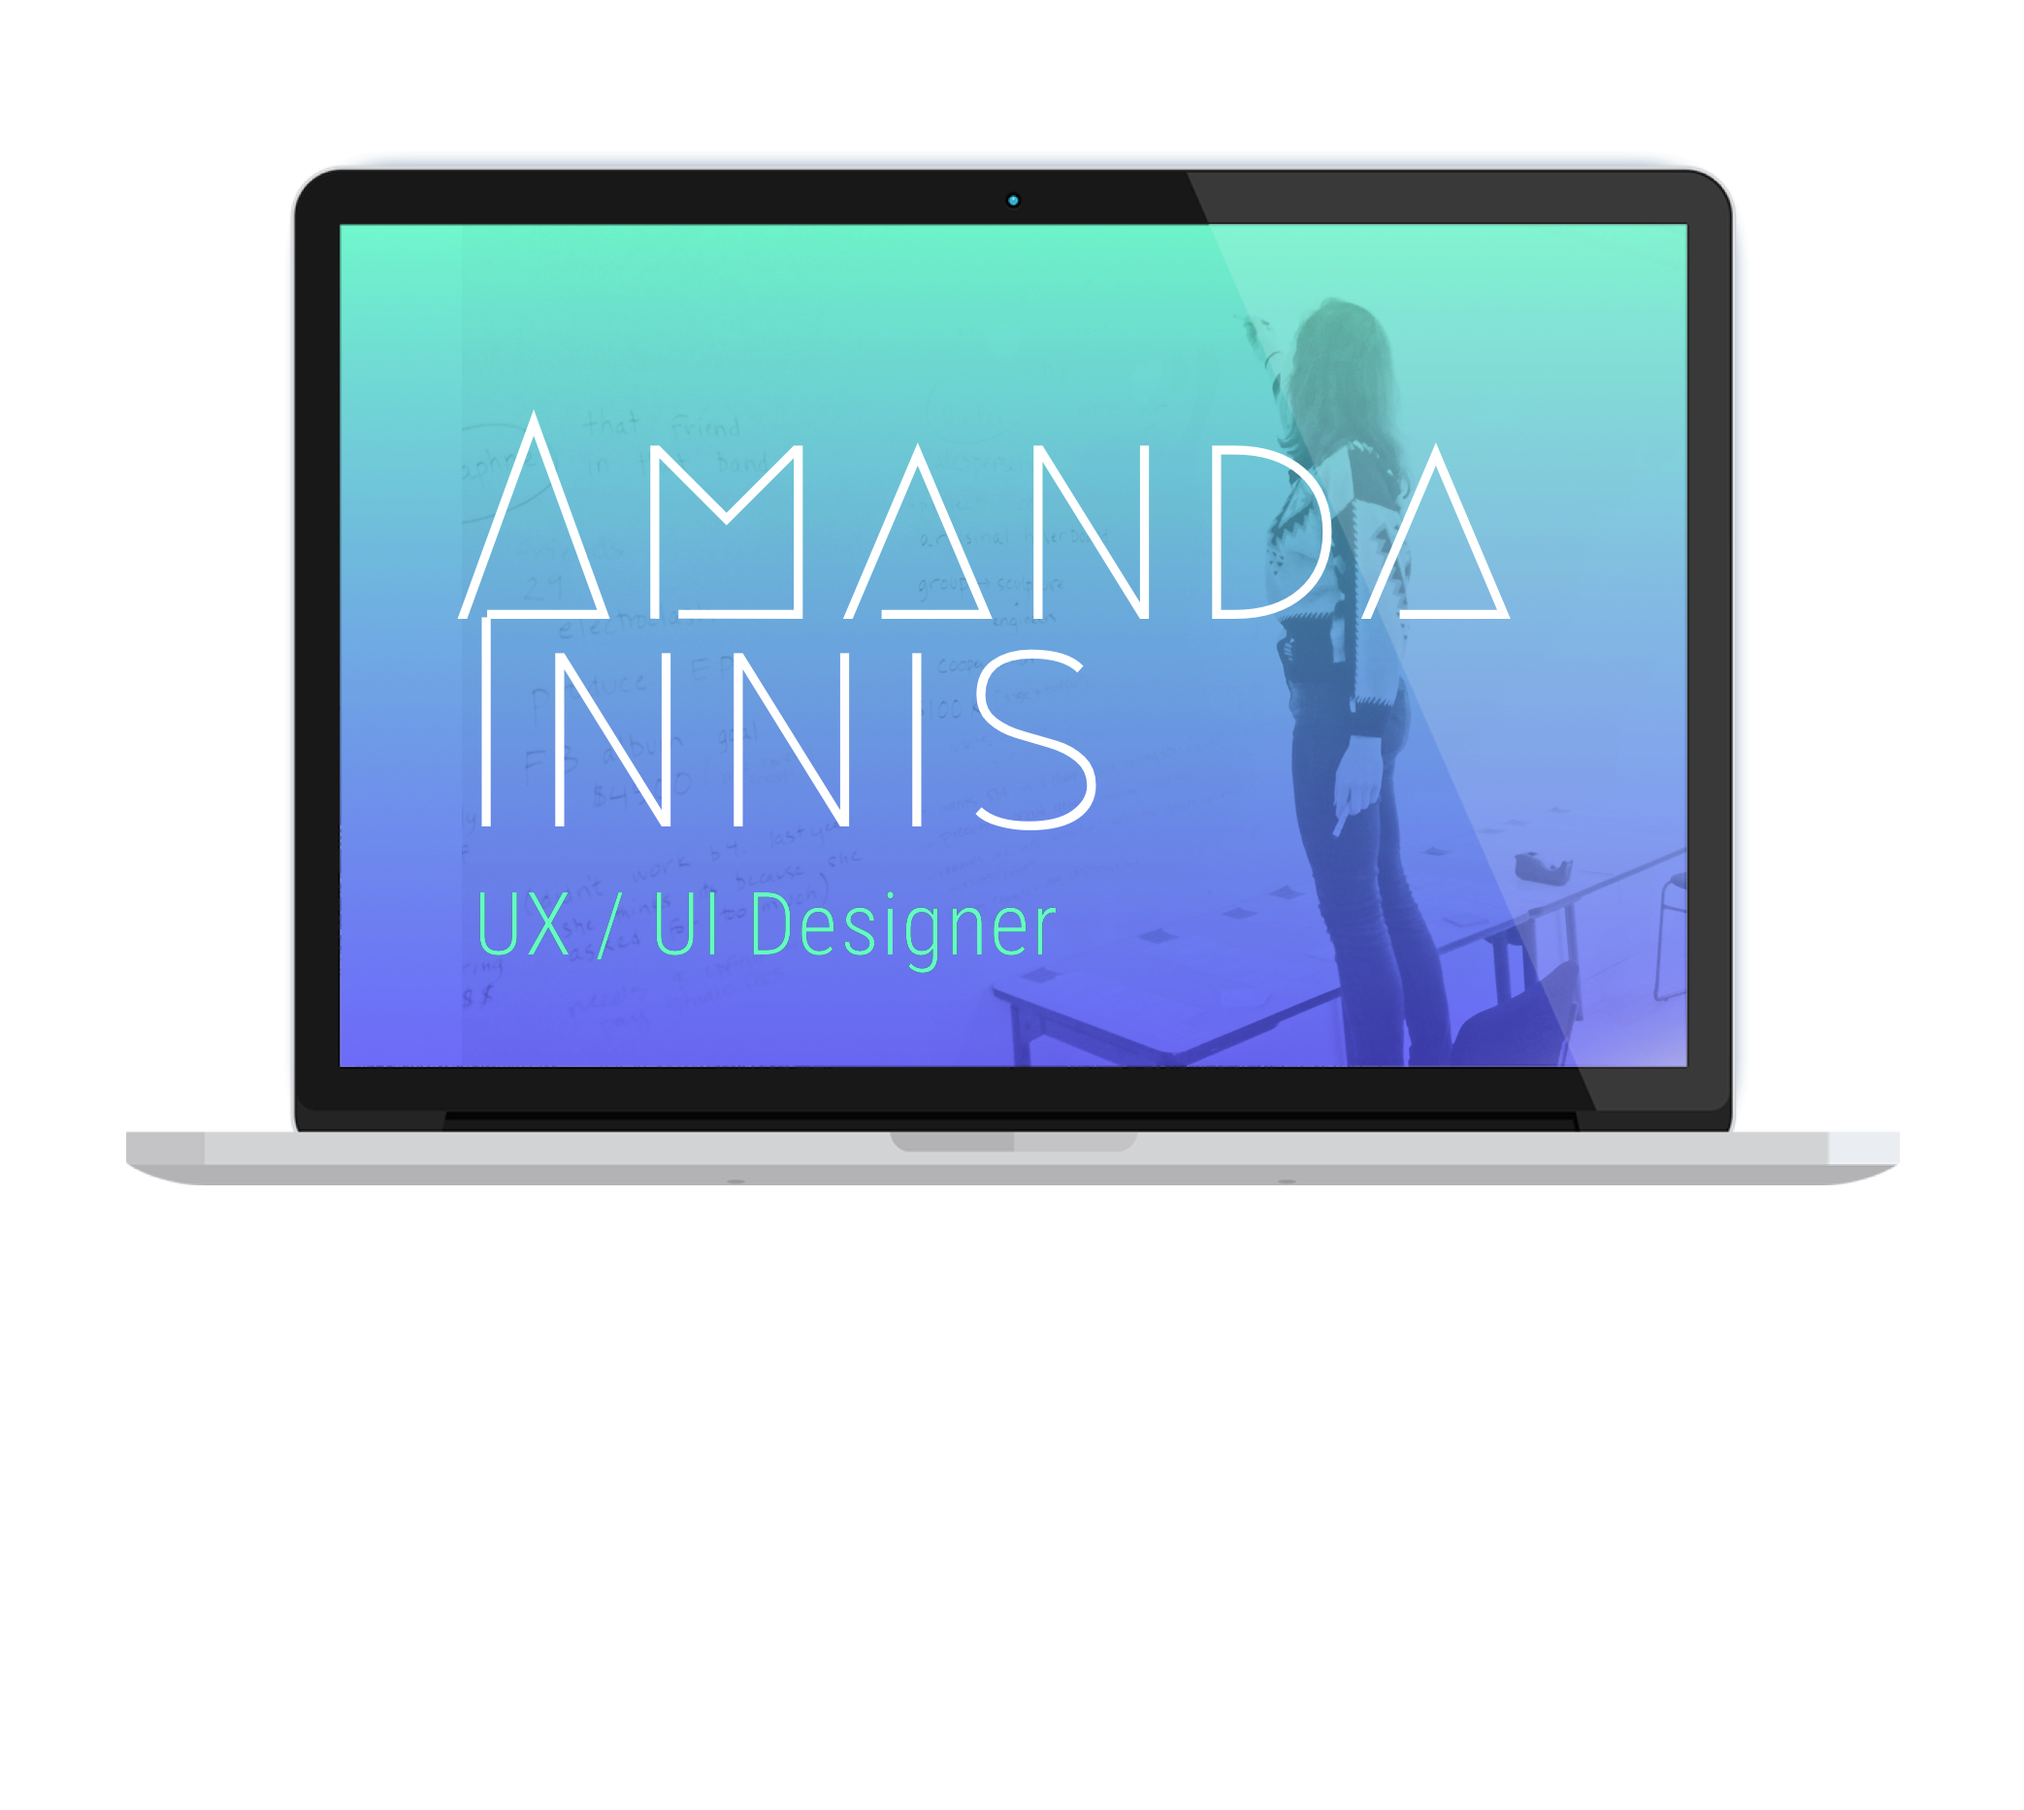
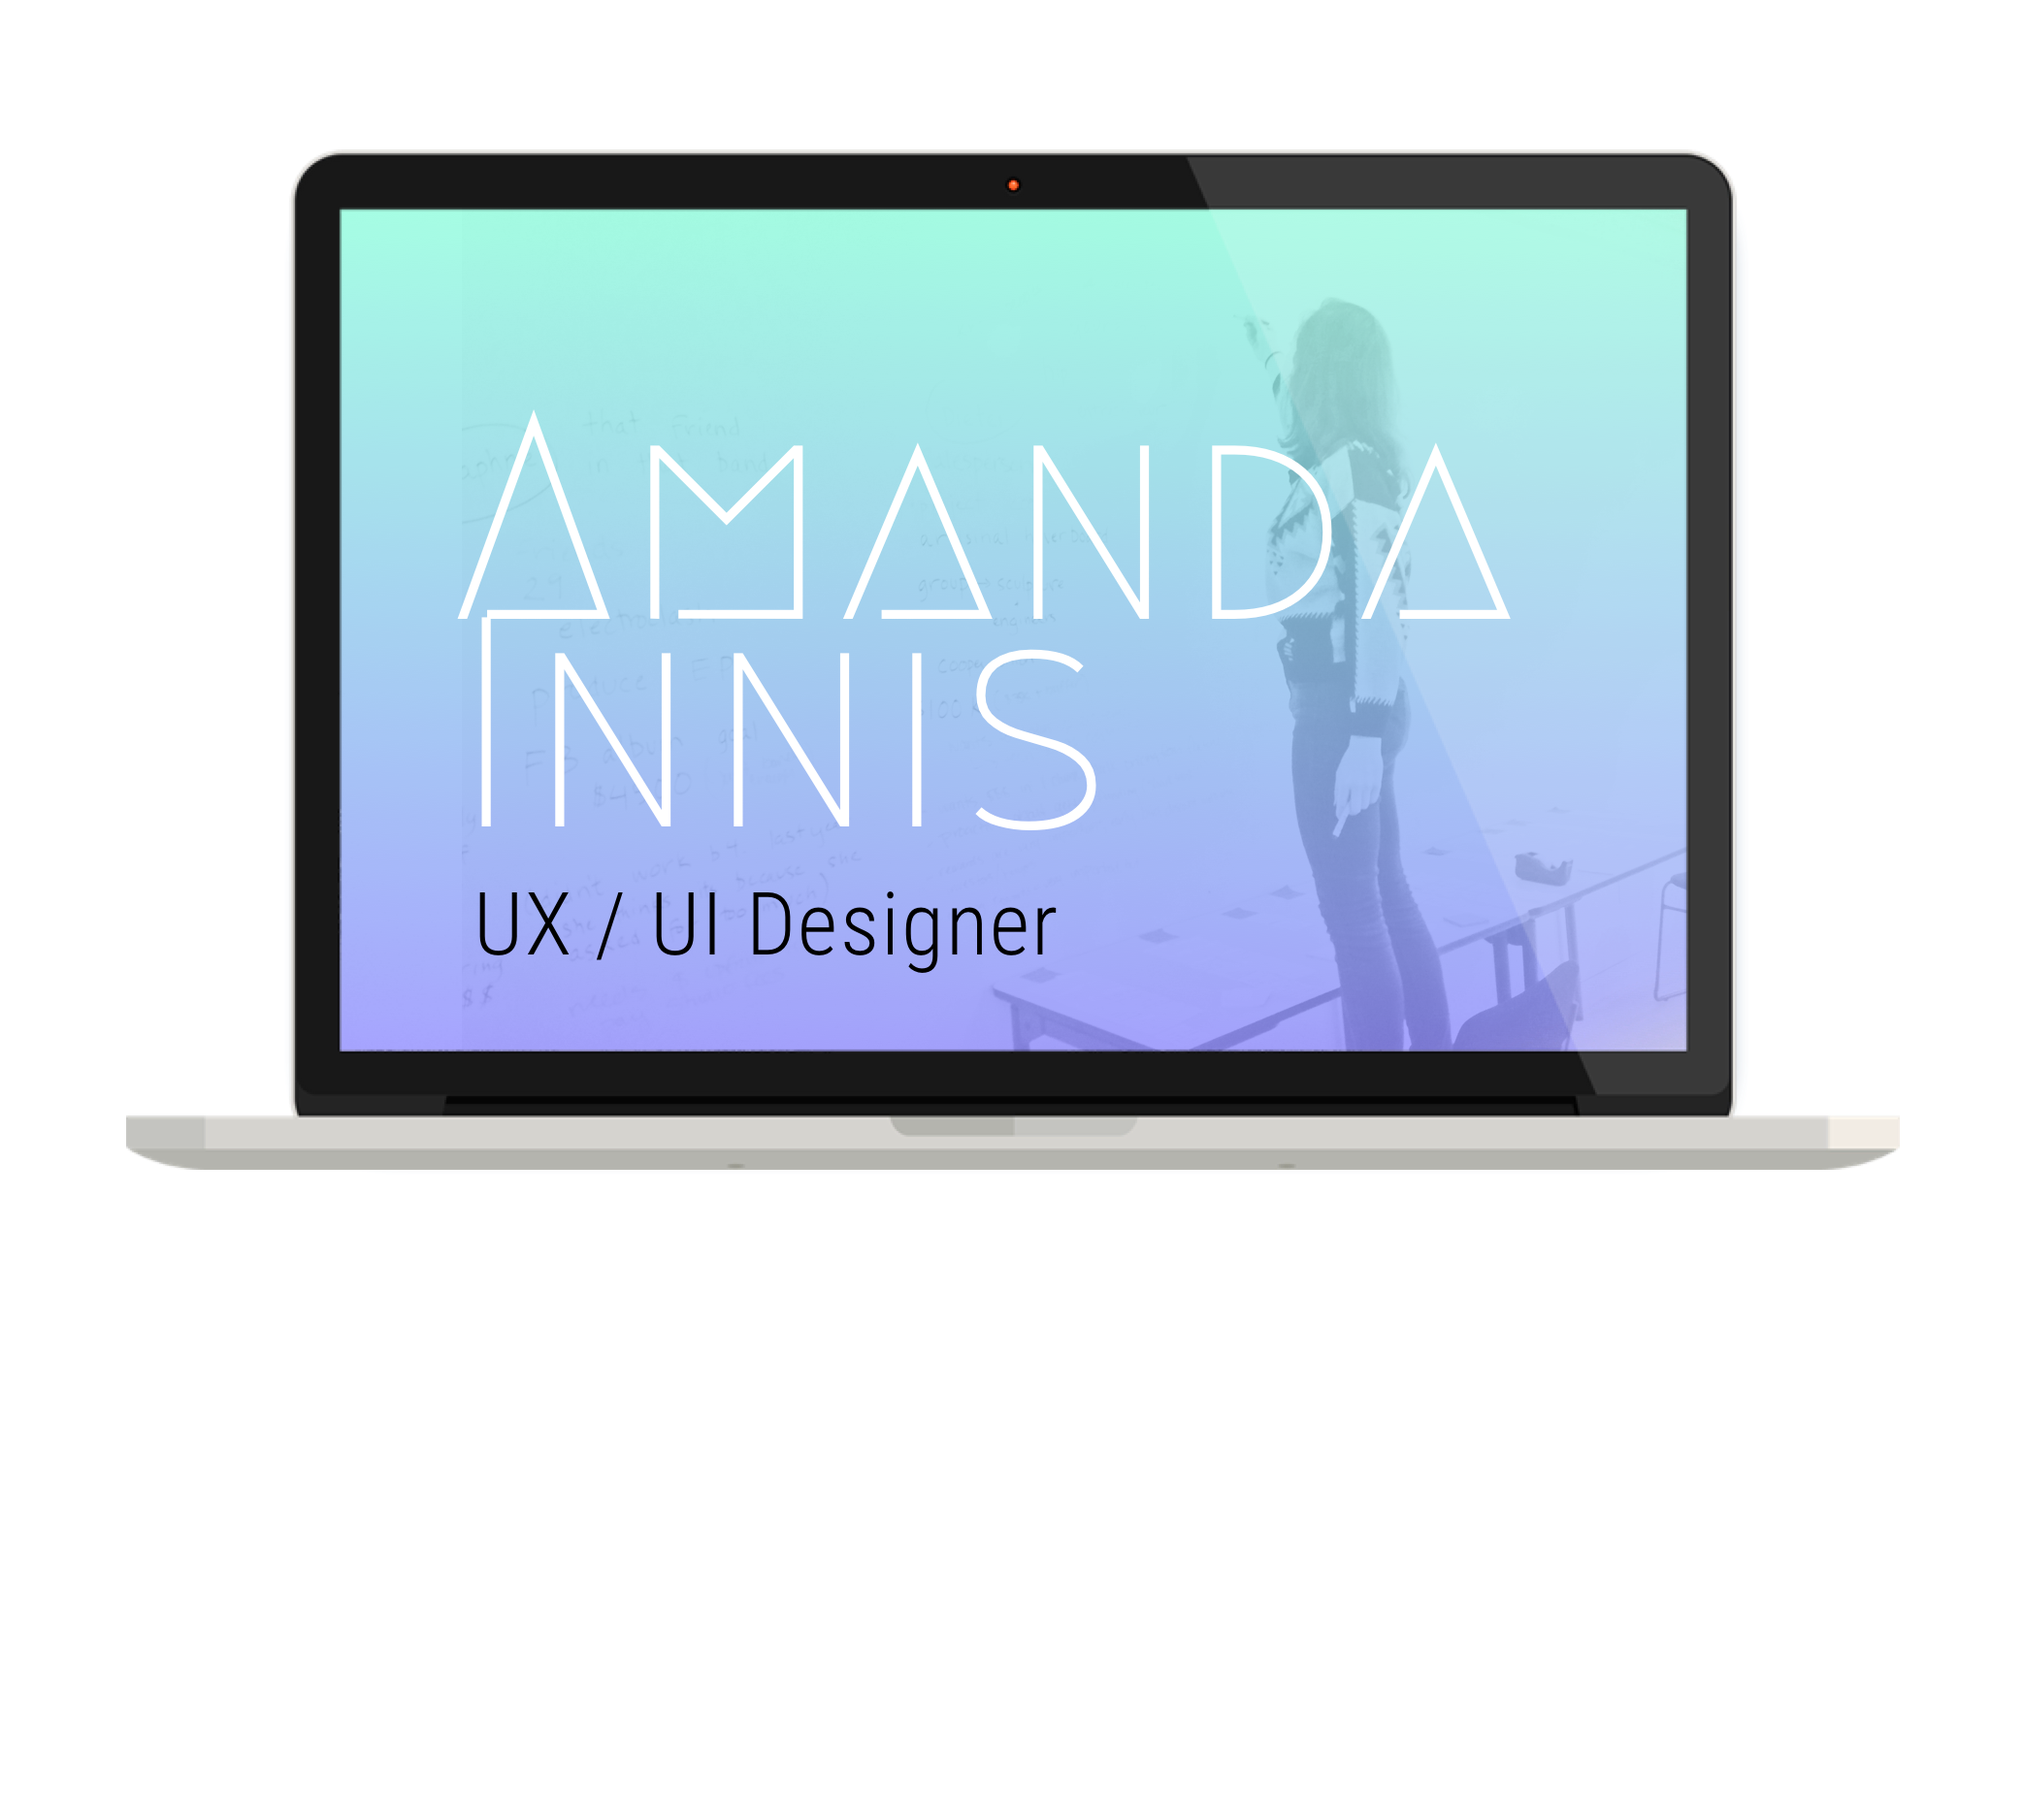
again

diff --git a/css/style.css b/css/style.css
@@ -98,11 +98,23 @@
         padding-right: 2%;
         padding-bottom: 2%;
         width: 100%;
-        height: 60px;
+        height: 60px;*/
         text-align: right;
         margin: 0 auto;
         font-size: 15px;
         letter-spacing: 1px;	
+        background: rgba(90,76,166,0.58);
+		background: -moz-linear-gradient(left, rgba(90,76,166,0.58) 0%, rgba(144,182,240,1) 100%);
+		background: -webkit-gradient(left top, right top, color-stop(0%, rgba(90,76,166,0.58)), color-stop(100%, rgba(144,182,240,1)));
+		background: -webkit-linear-gradient(left, rgba(90,76,166,0.58) 0%, rgba(144,182,240,1) 100%);
+		background: -o-linear-gradient(left, rgba(90,76,166,0.58) 0%, rgba(144,182,240,1) 100%);
+		background: -ms-linear-gradient(left, rgba(90,76,166,0.58) 0%, rgba(144,182,240,1) 100%);
+		background: linear-gradient(to right, rgba(90,76,166,0.58) 0%, rgba(144,182,240,1) 100%);
+		filter: progid:DXImageTransform.Microsoft.gradient( startColorstr='#5a4ca6', endColorstr='#90b6f0', GradientType=1);
+        }
+	}
+
+        #purple_gradient {	
         background: rgba(90,76,166,0.58);
 		background: -moz-linear-gradient(left, rgba(90,76,166,0.58) 0%, rgba(144,182,240,1) 100%);
 		background: -webkit-gradient(left top, right top, color-stop(0%, rgba(90,76,166,0.58)), color-stop(100%, rgba(144,182,240,1)));
@@ -123,13 +135,14 @@
         font-weight: 400;
        font-size: 1.2em;
 	    padding-top: .5em;
-	    padding-right: 1em;
+	   padding-right: 1em;
 	    padding-left: 1em;
 	    padding-bottom: 1em;
 	    display: inline-block;
-      } 
+	    text-align: left;} 
           
-      #nav_p {
+      
+		#nav_p {
         color: white;
         text-decoration: none;
         font-family:'Roboto Condensed'; /*or Droid Sans*/
@@ -140,7 +153,10 @@
 	    padding-left: 1em;
 	    padding-bottom: 1em;
 	    display: inline-block;
+	    text-align: right;
+	    float: right;
       }
+
 
       .container{
 		width: 90%;}
@@ -158,20 +174,6 @@
 		background-repeat: no-repeat;
 		 background-size: 100%;
 		}
-
-        /*body#home {
-		background: rgba(17,207,240,1);
-		background: -moz-linear-gradient(left, rgba(17,207,240,1) 0%, rgba(132,236,250,1) 100%);
-		background: -webkit-gradient(left top, right top, color-stop(0%, rgba(17,207,240,1)), color-stop(100%, rgba(132,236,250,1)));
-		background: -webkit-linear-gradient(left, rgba(17,207,240,1) 0%, rgba(132,236,250,1) 100%);
-		background: -o-linear-gradient(left, rgba(17,207,240,1) 0%, rgba(132,236,250,1) 100%);
-		background: -ms-linear-gradient(left, rgba(17,207,240,1) 0%, rgba(132,236,250,1) 100%);
-		background: linear-gradient(to right, rgba(17,207,240,1) 0%, rgba(132,236,250,1) 100%);
-		filter: progid:DXImageTransform.Microsoft.gradient( startColorstr='#11cff0', endColorstr='#84ecfa', GradientType=1 );
-		background-image: url("../img/Desktop_blank.jpg");
-		background-repeat: no-repeat;
-		background-size: 100%;}*/
-
 
 
 		body img{

diff --git a/index.html b/index.html
@@ -15,7 +15,7 @@
 
   </head>
   <body id="home">
-        
+       
           <nav>
             <span id="adi"><a href="index.html"><p id="adi_p">ADI</p></a></span> <!-- spans need to float, for god's sake! -->
             <a href="index.html#circle_me"><p id="nav_p">About Me</p></a>
@@ -28,6 +28,7 @@
 
             <div class="container"> <!-- -container -->
             
+
             <div class="header" id="teal">
               <a href="projects.html" style="color: black"><h1 id="black">SEE MY PROJECTS</h1></a>
               </div> 
